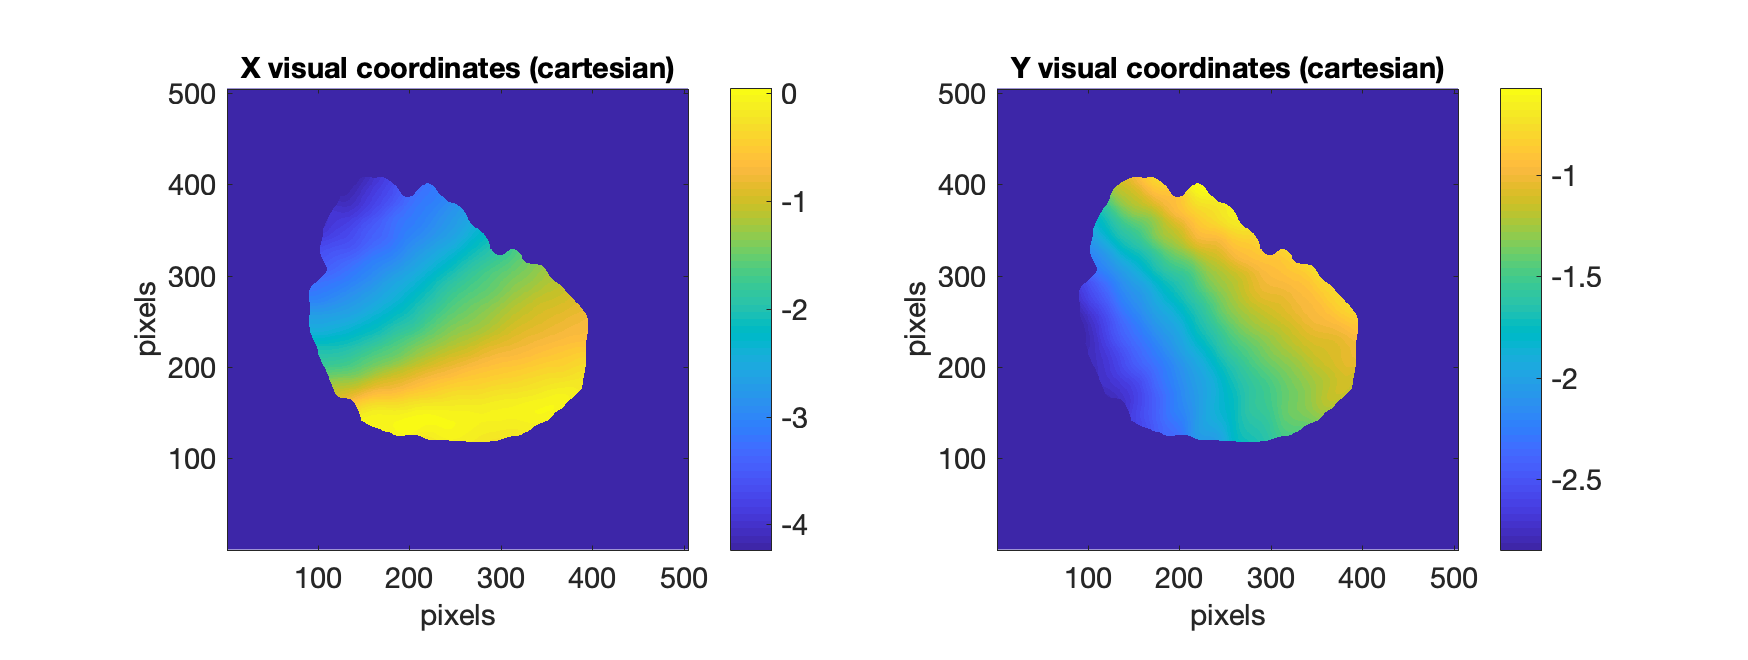
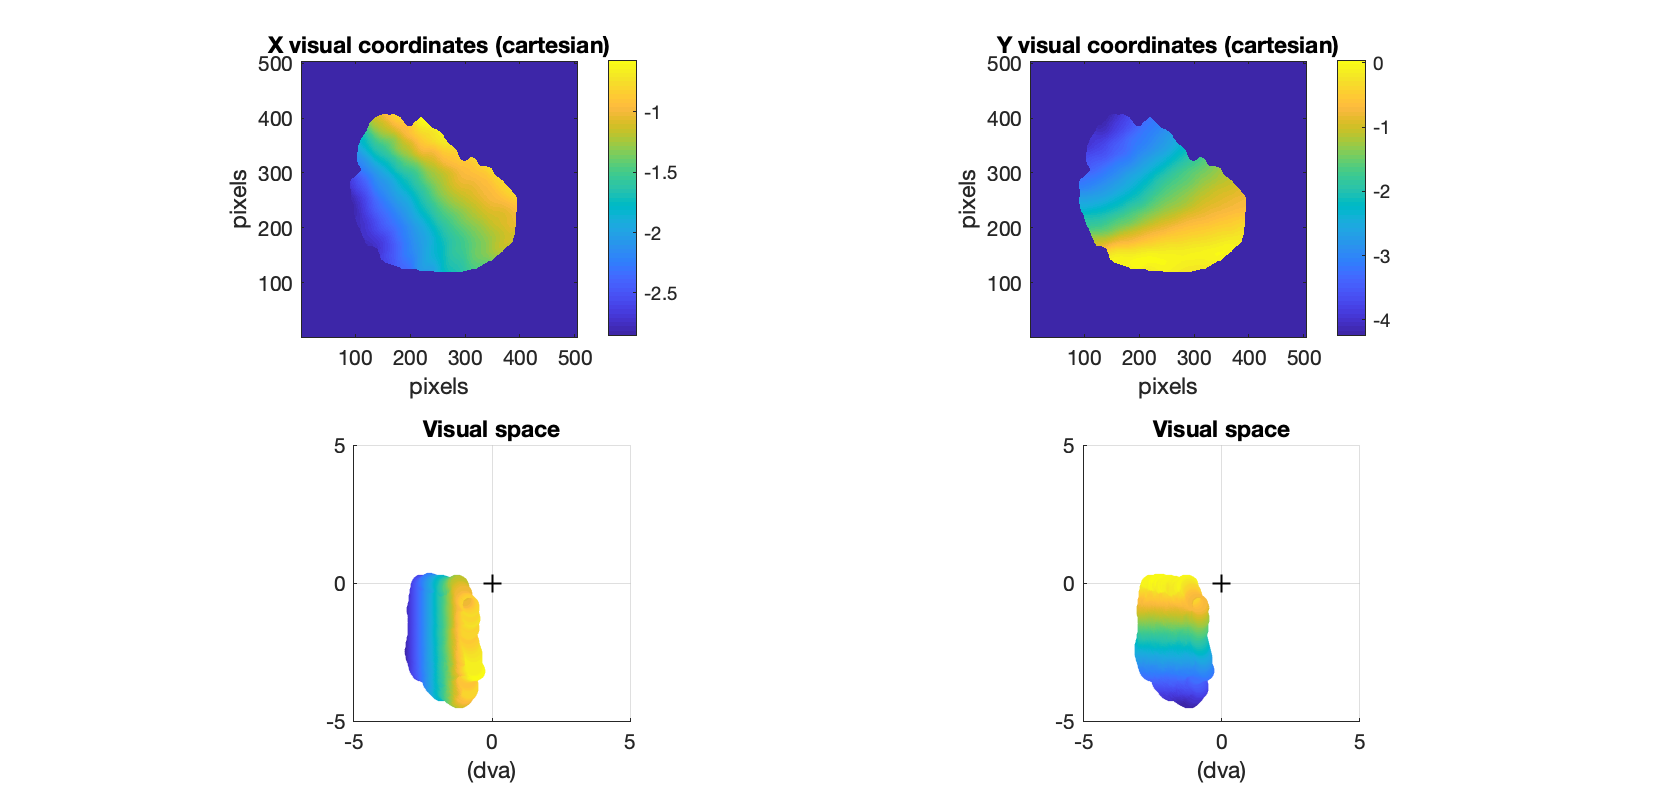
Added figures to README

diff --git a/DEMO.m b/DEMO.m
@@ -34,13 +34,16 @@ title('Y visual coordinates (cartesian)')
 subplot(223)
 scatter(RX(:),RY(:),60,RX(:)); axis square
 xlabel('(dva)')
-xlim([-5 5 ]); ylim([-5 5 ])
+xlim([-5 5 ]); ylim([-5 5 ]); grid
+hold on; scatter(0,0,60,'k+')
 title('Visual space')
 
 subplot(224)
 scatter(RX(:),RY(:),60,RY(:)); axis square
-xlim([-5 5 ]); ylim([-5 5 ])
-
+xlim([-5 5 ]); ylim([-5 5 ]); grid
+hold on; scatter(0,0,60,'k+')
+xlabel('(dva)')
+title('Visual space')
 set(gcf,'color','w')
 
 %saveas(gcf,'./figures/RealRetino','png')
@@ -65,7 +68,7 @@ save('./testdata/param','param')
 %  param(6) = -200
 % [h w] = size(RX) ;
 figure
-N =20
+N =30
 
 % Take a sample of equally spaced pixels values
 q = round(linspace(1,h,N));
@@ -90,12 +93,14 @@ subplot(221)
 scatter(x,y,60,RXs,'filled'); colorbar; grid
  xlim([xx])
  ylim([xx])
+ xlabel('mm'); ylabel('mm')
+ title('Fit')
 
 subplot(222)
 scatter(X.*dd,Y.*dd,60,RXs,'filled'); colorbar; grid
  xlim([xx])
  ylim([xx])
-
+ title('Real')
 
 
 subplot(223)

diff --git a/README.md b/README.md
@@ -1,6 +1,21 @@
 # RetinoMapModel
 Simulate neuronal responses over the retinotopic map in primary visual cortex
 
-RetinoEllipse.m is a Matlab object that allows to generate an arbitrary Retinotopic map
+## Model Demo
+This contains a V1 retinotopic map model
+![DemoGrid](./figures/DemoGrid.png)
+*Simple grid*
 
-FitRetino.m is a Matlab function that allows to fit measured retinotopic coordinates with the model
+![RealRetino](./figures/RealRetino.png)
+
+![RealRetino](./figures/FitRetino.png"Retinotopy")
+
+\[
+   \frac{1}{2}
+\]
+
+## Quick Start
+1. Clone this repository and add it to Matlab path
+2. Clone bads repository and add it to Matlab path
+3. Set this repo as Current folder in Matlab
+4. Open "DEMO.m" in Matlab, section by section (cmd+enter)
